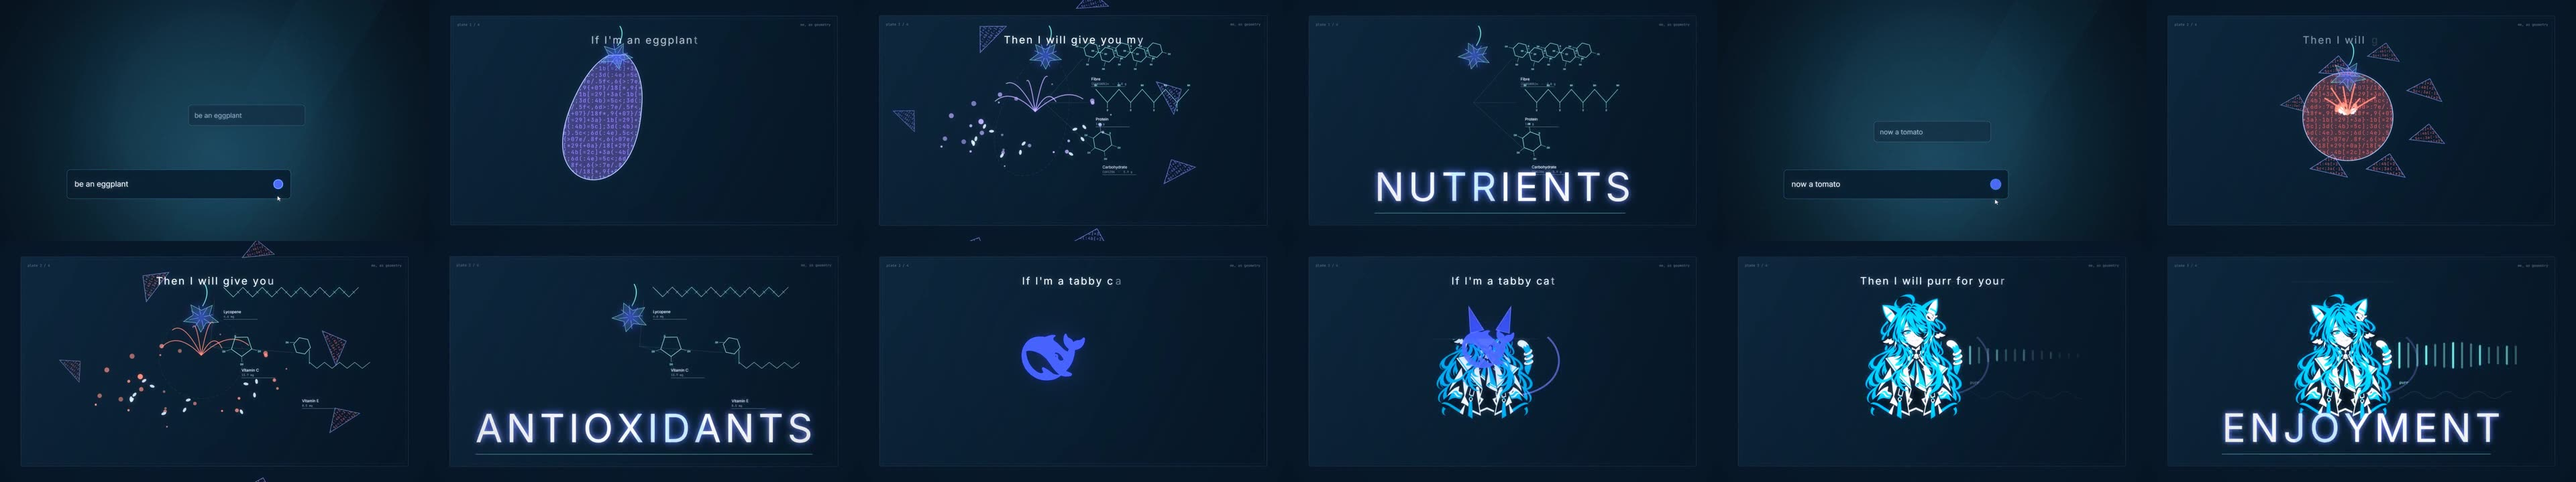
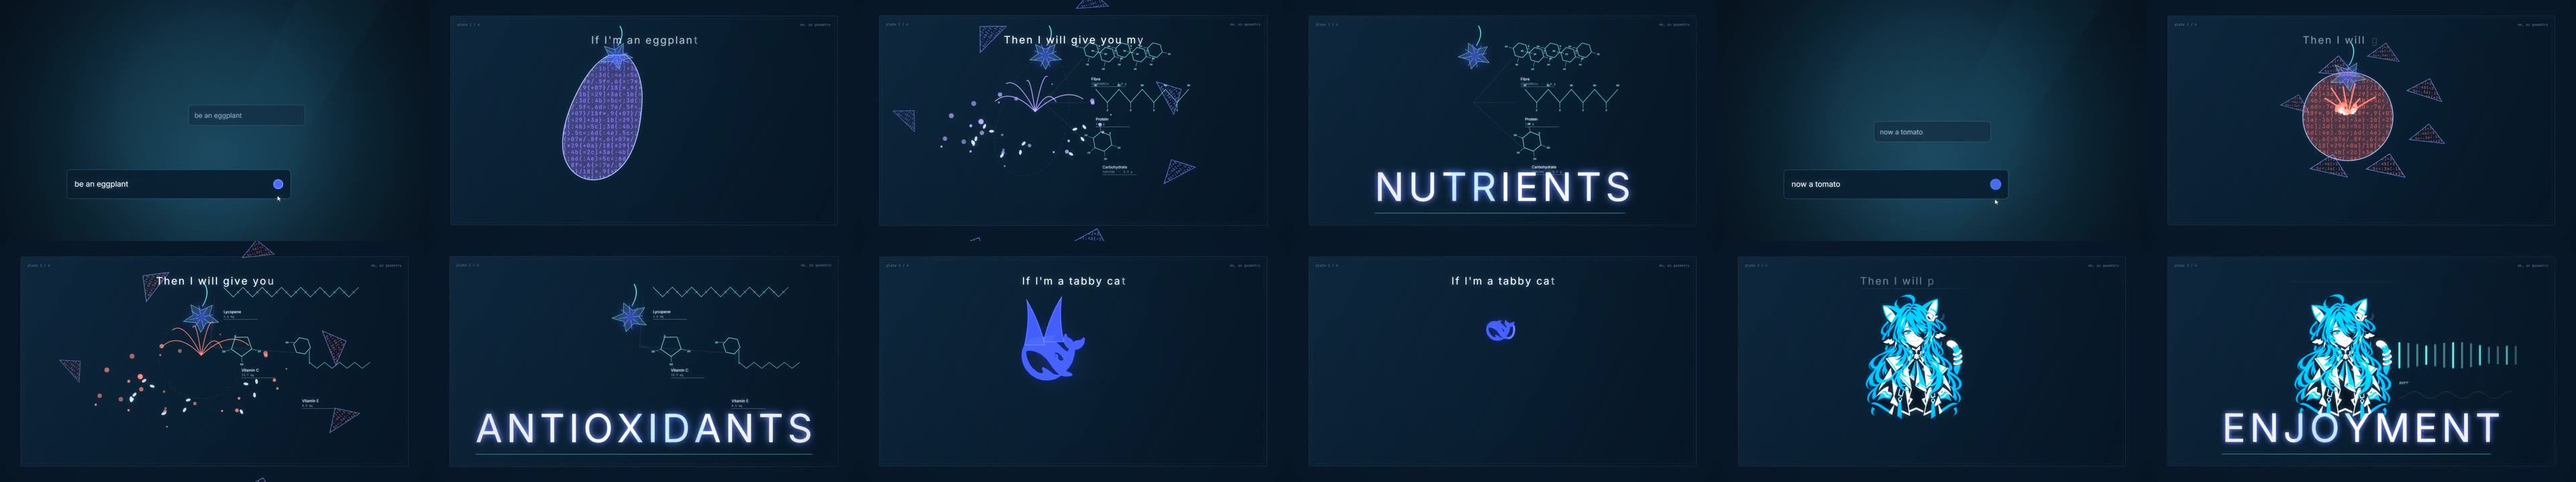
Section 6 cat: put the ears on the head and the tail on the rear
The mark becoming the cat had its parts floating: the two ear triangles hovered above
and to the left of the whale, and the tail curve started in empty space to its right.
Both were placed with fractions of the logo's size instead of the logo's own geometry.

The mark's viewBox is 60 x 41.36, so I rendered the path against a coordinate grid and
read the landmarks off it: the head is the round mass at u 4..31, its top contour runs
from y 8 down to y 1.6, and the rear-bottom corner of the body is at about (42, 36).
The ears now stand on that contour (u 11.5 and u 28.5) and the tail starts at that
corner, so both are attached to the animal instead of near it.

Two follow-ons: the mark now shrinks into the pin BEFORE the cat plate finishes inking
up (otherwise the giant ears sat on top of her hair), and the tail scales and travels
with the shrinking mark instead of staying behind on the sheet.

Changed region(s): [[0.7188, 0.5806, 0.7812, 0.8556], [0.5312, 0.6417, 0.5938, 0.8861], [0.375, 0.6417, 0.4375, 0.7028]]

diff --git a/newProj_v1017/shots/s06_plates.js b/newProj_v1017/shots/s06_plates.js
@@ -628,10 +628,12 @@ function v2Cat(ctx, t, s) {
   // where the plate's own whale pin sits, so the mark can land on it
   const pin = [cx - (1342 * sScale) / 2 + 1010 * sScale, cy - size / 2 + 300 * sScale];
 
-  const ears = easeOut(at(u, 0.18, 0.55));
-  const flood = at(u, 0.35, 0.78);
-  const logoK = 1 - clamp01(at(u, 0.6, 0.92));
-  const pinK = easeOut(at(u, 0.55, 0.85));
+  const ears = easeOut(at(u, 0.16, 0.46));
+  // the mark dissolves into the pin BEFORE the plate has fully inked in, so the two
+  // never sit on top of each other fighting for the same space
+  const flood = at(u, 0.56, 0.95);
+  const logoK = 1 - clamp01(at(u, 0.5, 0.82));
+  const pinK = easeOut(at(u, 0.38, 0.8));
 
   // 1. the plate inks in from the bottom, like a print being pulled off the block
   if (flood > 0.01) {
@@ -647,52 +649,76 @@ function v2Cat(ctx, t, s) {
     );
   }
 
-  // 2. the tail: one curve of the mark's own ink, growing out to the right
-  const tail = easeOut(at(u, 0.22, 0.7));
+  // 2. the tail: it grows out of the whale's own rear, not out of the sheet.
+  // The mark's viewBox is 60 x 41.36, and the body's rear-bottom corner sits at
+  // about (42, 36) in those units, so the curve starts there and then leaves.
+  // the mark's placement, shared by the tail and the ears: it slides and shrinks into
+  // the pin, and the tail has to go with it or it gets left behind on the sheet
+  const k = pinK;
+  const lx = cx + (pin[0] - cx) * k;
+  const ly = cy + (pin[1] - cy) * k;
+  const lsz = 300 - (300 - 46) * k;
+  const tail = easeOut(at(u, 0.24, 0.72));
   if (tail > 0.02) {
-    layer(ctx, tail * (1 - flood * 0.7), () => {
-      ctx.beginPath();
-      ctx.moveTo(cx + size * 0.3, cy + size * 0.3);
-      ctx.bezierCurveTo(
-        cx + size * 0.62, cy + size * 0.24,
-        cx + size * 0.66, cy - size * 0.02,
-        cx + size * 0.5, cy - size * 0.16,
-      );
-      ctx.strokeStyle = BRAND_SOFT;
-      ctx.lineWidth = 8;
-      ctx.stroke();
-    });
+    const ws = lsz / 60;
+    const ty = ly - (41.36 * ws) / 2;
+    const p0 = [lx - lsz / 2 + 42 * ws, ty + 36 * ws];
+    const c1 = [lx - lsz / 2 + 51 * ws, ty + 39 * ws];
+    const c2 = [lx - lsz / 2 + 59 * ws, ty + 27 * ws];
+    const p3 = [lx - lsz / 2 + 55 * ws, ty + 10 * ws];
+    // sample the curve so it can be drawn on, not faded in
+    const pts = [];
+    for (let i = 0; i <= 24; i++) {
+      const q = i / 24;
+      const a = (1 - q) ** 3;
+      const b = 3 * (1 - q) ** 2 * q;
+      const c = 3 * (1 - q) * q * q;
+      const e = q ** 3;
+      pts.push([
+        a * p0[0] + b * c1[0] + c * c2[0] + e * p3[0],
+        a * p0[1] + b * c1[1] + c * c2[1] + e * p3[1],
+      ]);
+    }
+    const upTo = Math.max(2, Math.round(pts.length * tail));
+    layer(ctx, 1 - flood * 0.7, () =>
+      stroke(ctx, pts.slice(0, upTo), BRAND_SOFT, 9, 0.95),
+    );
   }
 
   // 3. the mark itself, unfolding into ears and then shrinking into the pin
   if (logoK > 0.01 || pinK < 0.99) {
-    const k = pinK;
-    const lx = cx + (pin[0] - cx) * k;
-    const ly = cy + (pin[1] - cy) * k;
-    const lsz = 300 - (300 - 46) * k;
     layer(ctx, Math.max(logoK, 0), () => {
       halo(ctx, lx, ly, lsz * 0.9, 0.22, BRAND);
       drawWhale(ctx, lx, ly, lsz, { strokeK: 1, fillK: 1, color: BRAND, alpha: 0.9 });
     });
 
-    // the ears grow off the mark's top, in the mark's own colour
+    // The ears have to sit on the whale's head. Measured off the mark's own path:
+    // the head is the round mass at u 4..31, so its top contour runs y 8 -> 1.6
+    // from left to right. The ears stand on that contour at u 12.5 and u 27.5.
     if (ears > 0.02 && k < 0.6) {
+      const s = lsz / 60;
+      const y0 = ly - (41.36 * s) / 2;
+      const X = (uu) => lx - lsz / 2 + uu * s;
+      const Y = (vv) => y0 + vv * s;
       layer(ctx, ears * (1 - k / 0.6), () => {
-        for (const side of [-1, 1]) {
-          const bx = lx + side * lsz * 0.22;
-          const by = ly - lsz * 0.34;
-          const hh = lsz * 0.42 * ears;
+        const ear = (uu, vv, lean) => {
+          const bx = X(uu);
+          const by = Y(vv);
+          const w = 9 * s;
+          const hh = 42 * s * ears;
           ctx.beginPath();
-          ctx.moveTo(bx - lsz * 0.11 * side, by);
-          ctx.lineTo(bx + side * lsz * 0.16, by - hh);
-          ctx.lineTo(bx + lsz * 0.13 * side, by + lsz * 0.06);
+          ctx.moveTo(bx - w, by + 5 * s);
+          ctx.quadraticCurveTo(bx - w * 0.45, by - hh * 0.5, bx + lean * s, by - hh);
+          ctx.quadraticCurveTo(bx + w * 0.5, by - hh * 0.42, bx + w, by + 5 * s);
           ctx.closePath();
           ctx.fillStyle = BRAND;
           ctx.fill();
           ctx.strokeStyle = BRAND_SOFT;
           ctx.lineWidth = 3;
           ctx.stroke();
-        }
+        };
+        ear(11.5, 4.8, -7);
+        ear(28.5, 2.0, 7);
       });
     }
   }
